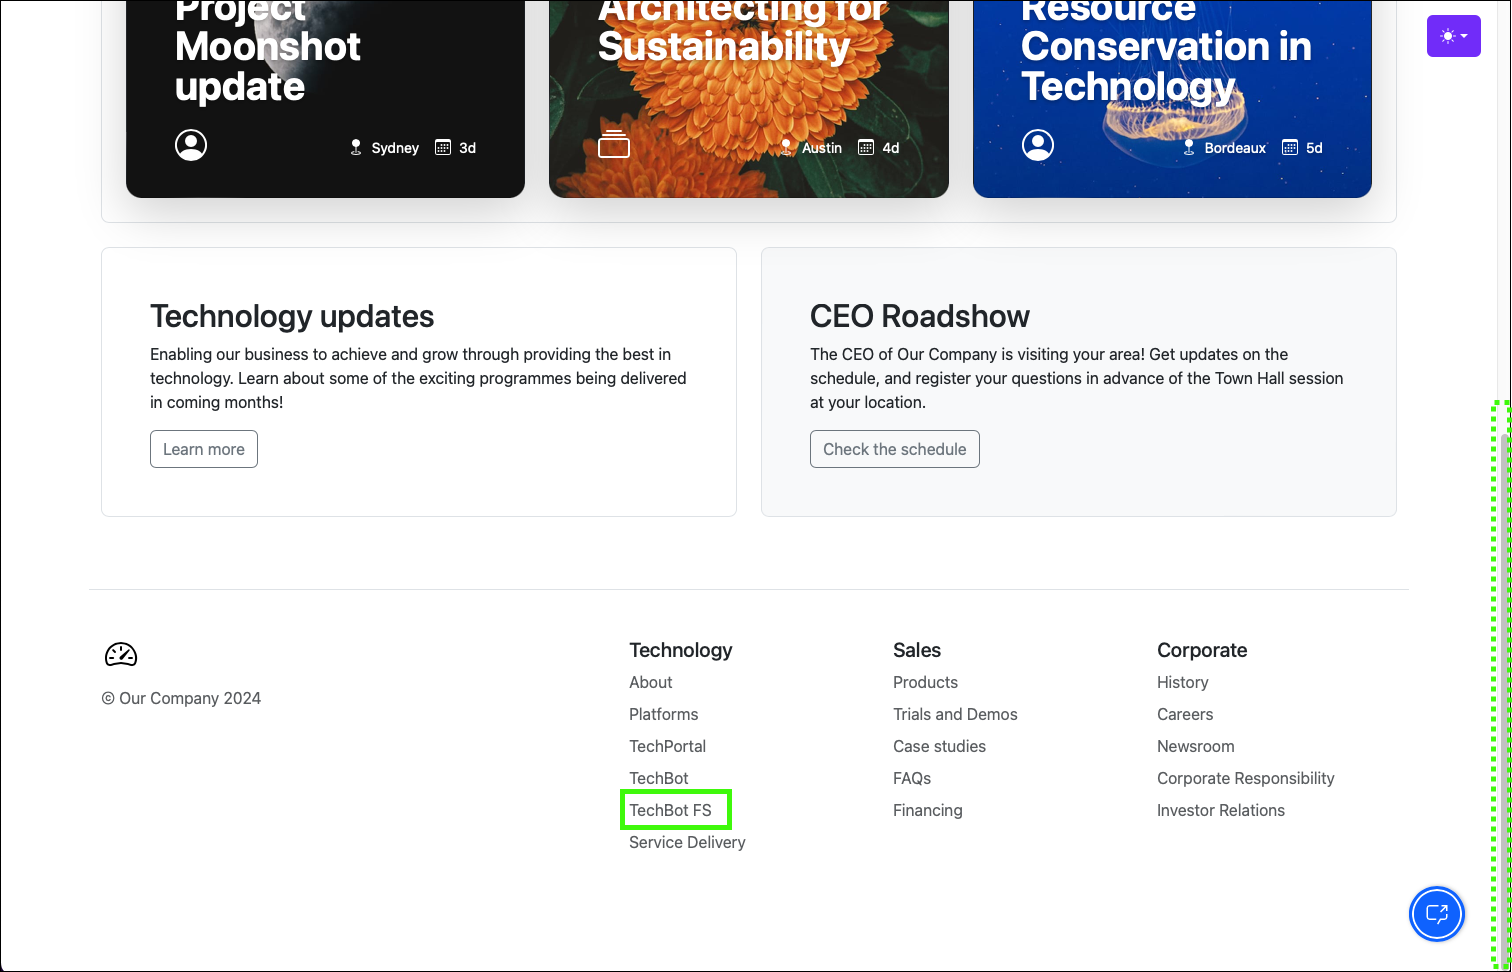
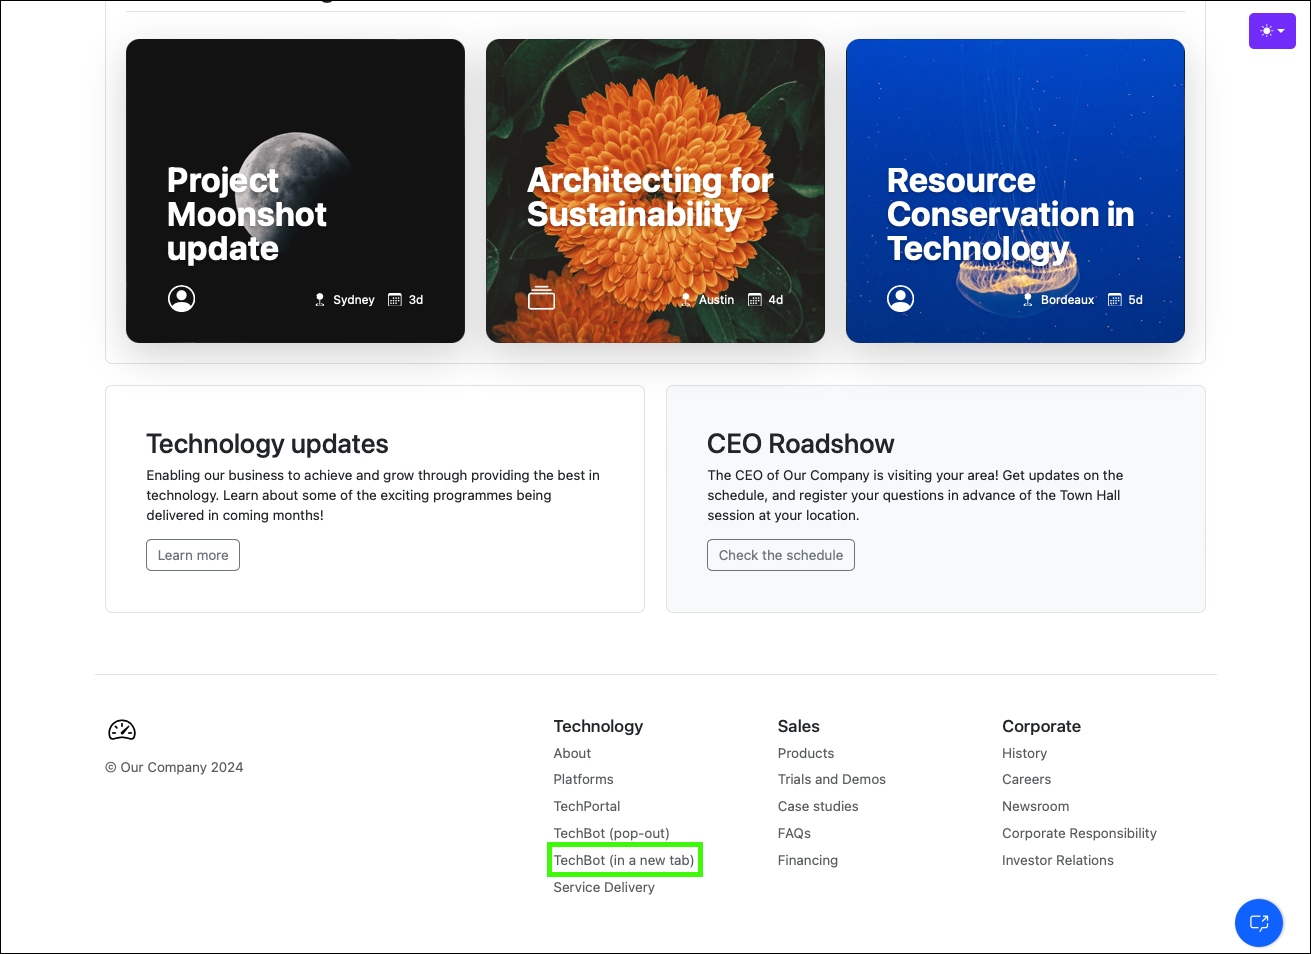
updates from James' review

diff --git a/docs/DemoGuidance.md b/docs/DemoGuidance.md
@@ -1,4 +1,4 @@
-Wether for a client, a session at a conference, or, if you are an IBM technical seller, your Stand and Deliver, preparation for a demonstration is critical. Included below are both general demonstration guidance and helpful tips for using {{offering.name}} and the IBM Technology Zone (ITZ) environment associated with the {{learningplan.name}} learning plan.
+Whether for a client, a session at a conference, or, if you are an IBM technical seller, your Stand and Deliver, preparation for a demonstration is critical. Included below are both general demonstration guidance and helpful tips for using {{offering.name}} and the IBM Technology Zone (ITZ) environment associated with the {{learningplan.name}} learning plan.
 
 ## General demonstration guidance
 Knowing the audience you are presenting to is critical. Having at least a basic understanding of a client's business and their challenges enables you to customize your conversation so it hits home with the audience. In addition, it is important to understand the roles of the individuals in your audience to know at what level of technical detail you should present.
@@ -10,16 +10,16 @@ In addition, it is always a good idea to:
 - Anticipate what objections the audience may raise.
 - Have a backup plan like a video recording of the demonstration in case of events like network failures, unexpected errors, etc.
 - If the demonstration is to be delivered virtually, make sure everything works as planned using the e-meeting technology that will be used.
-- Try not to deviate from your script unless the client forces you in a different direction. Adlibbing during a demonstration can lead to unexpected results and failure.
+- Try not to deviate from your script unless the client forces you in a different direction. Straying from the planned a demonstration can lead to unexpected results and failure.
 - If possible, and time permits, make the demonstration interactive. If that isn't possible, be sure to leave time for questions.
-- Always conclude with a **call to action**, for example, next steps, follow-on activities, etc.
+- Always conclude with a **call to action** (for example, next steps, follow-on activities, etc.).
 
 And, most importantly, practice, practice, and practice.
 
 ## Specific guidance for {{offering.name}} and the ITZ environment
 Following the scripts provided in the {{guide.name}} will help guarantee a successful demonstration. Use these tips to help insure success with {{offering.name}} and the ITZ environment:
 
-- Follow the scripts in the {{guide.name}} for the automations amd skills to execute as expected.
+- Follow the scripts in the {{guide.name}} for the automations and skills to execute as expected.
 - Perform any pre-requisites steps prior to presenting. These are described with each demonstration scenario.
 - Anticipate different responses from the scripted queries. This is a live and changing demonstration environment. Responses are subject to change as updates are made to the large language model (LLM) and retrieval augmented generation (RAG) used by {{offering.name}}.
 - Procedural questions provide better structure to responses. For example, in a query it is better to use "Please explain how to estimate space requirements for Db2 table spaces without using db2 admin tool. Provide a step-by-step answer.” versus "how to estimate space requirements for tablespaces."

diff --git a/docs/TechZoneEnvironment.md b/docs/TechZoneEnvironment.md
@@ -22,7 +22,7 @@ Follow these steps to create a reservation in ITZ.
 
 3. Complete the form and click **Submit**.
 
-    **a**. Optionally, change the **Name** field for the reservation.
+    **a**. Optionally, change the **Name** field for the reservation. Note, changing the name doesn't appear to actually change the name of the reservation. This has been reported to ITZ support.
 
     **b**. Select the **Education** purpose tile.
 
@@ -32,10 +32,6 @@ Follow these steps to create a reservation in ITZ.
 
     **e**. The **End date and time** will be set to 2 days after the current date and time.
 
-    !!! tip "Extending a reservation"
-
-        The initial reservation duration is set by ITZ at 2 days and cannot be extended at the time the reservation is created. You can, and are encouraged to, extend the reservation once it is in the **Ready** state. Two extensions of 2 day increments are allowed. Steps to extend the reservation are shown below.
-
     **f**. Accept the IBM Technology Zone's terms and conditions and security policies.
 
     **g**. When satisfied with the parameters, click **Submit**.
@@ -43,7 +39,7 @@ Follow these steps to create a reservation in ITZ.
     ![](_attachments/itzRSVPReservationPage.png)
 
 ## Extend the reservation
-The ITZ provisioning process takes approximately 150 minutes. Multiple emails are sent from ITZ as the provisioning process runs. One email states the reservation is provisioning and the other email states that the environment is **Ready**. 
+The ITZ provisioning process takes approximately 15 minutes. Multiple emails are sent from ITZ as the provisioning process runs. One email states the reservation is provisioning and the other email states that the environment is **Ready**. 
 
 In rare cases, the provisioning process may fail. If you receive and email stating the reservation failed, try again by repeating steps 1-3.
 
@@ -93,7 +89,7 @@ This will open the virtual assistant on the current browser page as a pop-up dia
 ### The full page virtual assistant
 The second user interface available for the virtual assistant is a full browser page experience.
 
-11. Scroll to the bottom of the page and click **Techbot FS** under **Technology**.
+11. Scroll to the bottom of the page and click **Techbot (in a new tab)** under **Technology**.
 
     ![](_attachments/techBotFS.png)
 
@@ -107,4 +103,4 @@ The second user interface available for the virtual assistant is a full browser 
 Using the virtual assistant powered by IBM watsonx is easy. Enter a query into the text field and press ++return++ or click the send icon (![](_attachments/sendIcon.png)).
     ![](_attachments/enterQuery.png)
 
-Proceed to the next chapters to begin using {{offering.name}}.
+Proceed to the next chapter to start using {{offering.name}}.

diff --git a/docs/scenarios/Introduction.md b/docs/scenarios/Introduction.md
@@ -1,4 +1,4 @@
-In this chapter, find several modules that provide step-by-step guidance for using {{offering.name}} in specific scenarios based upon typical client interactions and workflows with IBM Z. Each scenario provides:
+In this chapter, several modules provide step-by-step guidance for using {{offering.name}} in specific scenarios based upon typical client interactions and workflows with IBM Z. Each scenario provides:
 
 - A brief overview of the scenario.
 - Any pre-requisite or setup steps necessary for the scenario to work in the demonstration environment.
@@ -13,7 +13,7 @@ Each scenario overview is written as if being presented to the client versus the
 
 !!! Quote "Speaker's script"
 
-    Hello *[insert customer name]*, Welcome to this demonstration of {{offering.name}}. Today, many early tenure IBM Z users spend hours looking for current information, accurate information, and performing time-consuming manual tasks. And they are very dependent on the Subject Matter Experts to complete their tasks.
+    Hello *[insert customer name]*. Welcome to this demonstration of {{offering.name}}. Today, many early tenure IBM Z users spend hours looking for current information, accurate information, and performing time-consuming manual tasks. And they are very dependent on the Subject Matter Experts to complete their tasks.
 
     {{offering.name}} is a new generative AI assistant that infuses automation into conversational AI to help transform how system programmers, operators, and developers of all experience levels engage with and manage the mainframe.
     {{offering.name}} is designed to enable clients to:

diff --git a/docs/scenarios/APF.md b/docs/scenarios/APF.md
@@ -3,7 +3,7 @@
 
     Imagine you are an early-tenure systems programmer (sysprog) that is tasked with updating the Authorized Program Facility (APF) authorized list on an logical partition (LPAR) and would like to quickly find guidance on doing this without having to read a bunch of manuals. In z/OS, the APF list includes information about libraries that contain APF-authorized programs. You would also like to take advantage of some simple automation to complete this task if possible. 
     
-    As you will see, in the last prompt, the virtual assistant powered by IBM watsonx will respond with the command you will need to run to add the library to the APF authorized list, followed by prompting you to run a skill (issuing a z/OS console command) on your behalf which will perform the task.
+    As you will see, in the last prompt, {{offering.name}} will respond with the command you will need to run to add the library to the APF authorized list, followed by prompting you to run a skill (issuing a z/OS console command) on your behalf which will perform the task.
 
 ??? warning "Responses from the virtual assistant may change"
 

diff --git a/docs/NextSteps.md b/docs/NextSteps.md
@@ -9,5 +9,5 @@ Finally, remember to complete the {{learningplan.name}} learning plan to earn th
 
 **IBM technical sellers** must complete a Stand and Deliver exercise to validate their ability to demonstrate {{offering.name}} to potential clients. Refer to the evaluation checklist in the learning plan for the Stand and Deliver.
 
-**Business Partners** must pass the {{learningplan.name}} quiz that is located in the learn.ibm.com learning plan. The Business Partner quiz verifies use of the demonstration environment and click-through demonstrations, and not one's general knowledge of the offerings.
+**Business Partners** must pass the {{learningplan.name}} quiz that is located in the learn.ibm.com learning plan. The Business Partner quiz verifies use of the demonstration environment and click-through demonstrations, and not one's general knowledge of the offering.
 
